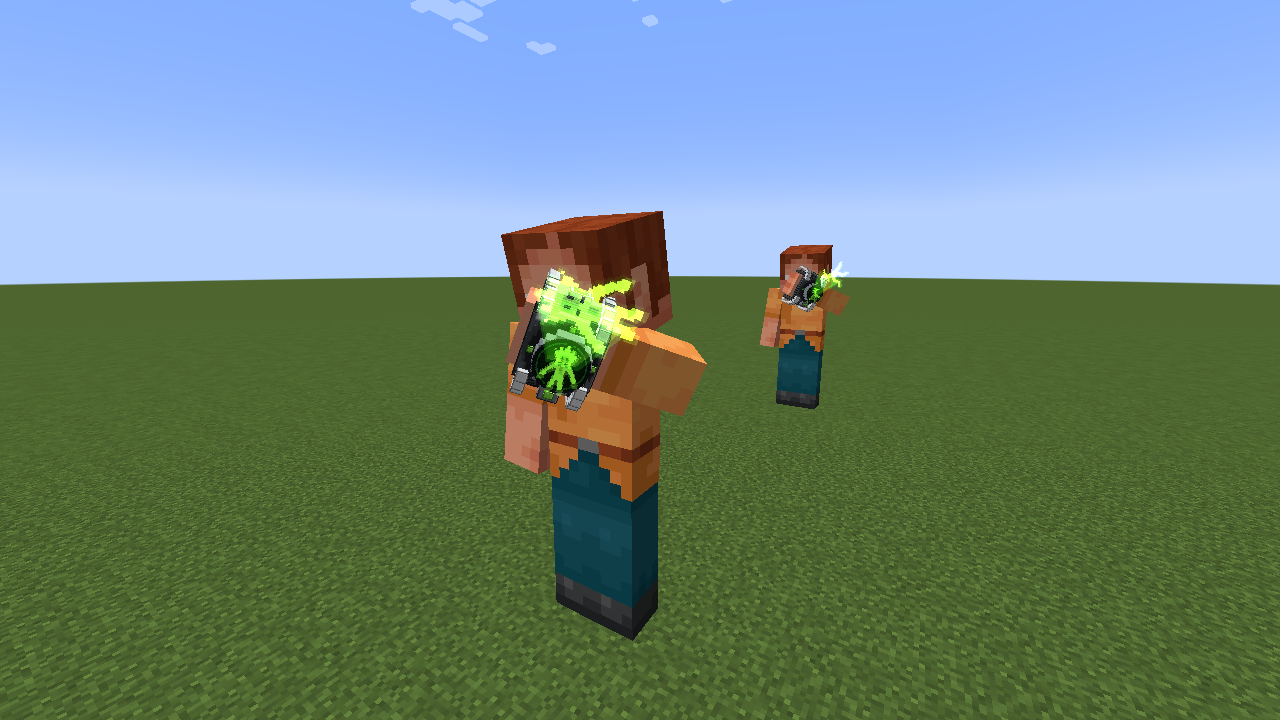
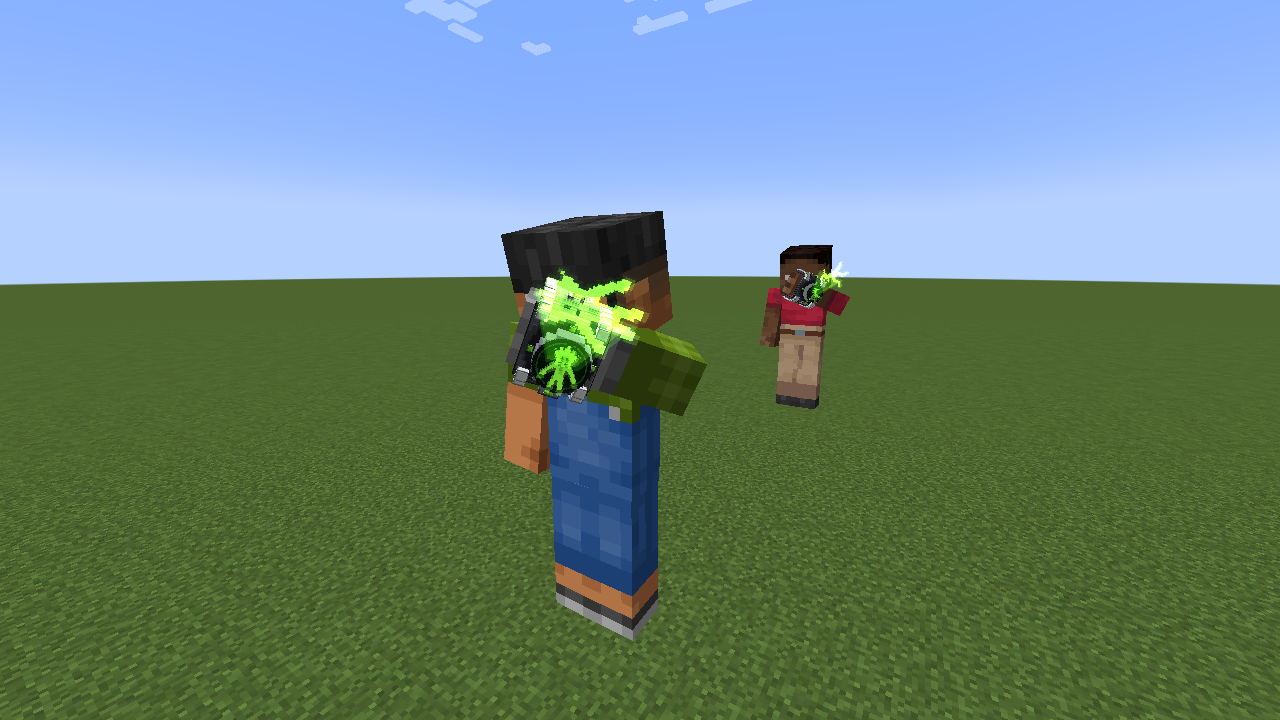
v0.17.1: slimmer Omnitrix cuff (thinner walls and side plates, prongs and button hugging the sides) so it isn't much wider than the arm

diff --git a/src/client/java/com/projecthero/mod/client/omnitrix/OmnitrixModel.java b/src/client/java/com/projecthero/mod/client/omnitrix/OmnitrixModel.java
@@ -48,7 +48,8 @@ public final class OmnitrixModel {
 		int lit = LightTexture.FULL_BRIGHT;
 		float cy = CY;
 		// ---- the cuff: four slabs round the wrist (covering the sleeve layer), the long edges stepped like a chamfer
-		float xi0 = -1.3f, xi1 = L + 0.3f, zi = 2.3f, th = 0.55f;
+		// v0.17.1 (user: the cuff was much wider than the arm): thinner walls / plates and prongs that hug the sides
+		float xi0 = -1.3f, xi1 = L + 0.3f, zi = 2.3f, th = 0.4f;
 		box(pose, vc, xi1, cy - 2.35f, -zi, xi1 + th, cy + 2.35f, zi, CUFF, light);                // top
 		box(pose, vc, xi0 - th, cy - 1.65f, -zi + 0.2f, xi0, cy + 1.65f, zi - 0.2f, CUFF, light);   // underside (narrower, like a strap)
 		for (int sgn = -1; sgn <= 1; sgn += 2) {
@@ -59,7 +60,7 @@ public final class OmnitrixModel {
 			box(pose, vc, xi1, cy - 2.15f, zc0, xi1 + 0.3f, cy + 2.15f, zc1, CUFF, light);
 			box(pose, vc, xi0 - 0.3f, cy - 1.65f, zc0, xi0, cy + 1.65f, zc1, CUFF, light);
 			// the bevelled side plate
-			float zp0 = sgn > 0 ? zi + th : -zi - th - 0.22f, zp1 = sgn > 0 ? zi + th + 0.22f : -zi - th;
+			float zp0 = sgn > 0 ? zi + th : -zi - th - 0.15f, zp1 = sgn > 0 ? zi + th + 0.15f : -zi - th;
 			box(pose, vc, -0.7f, cy - 1.65f, zp0, L - 0.1f, cy + 1.65f, zp1, PLATE, light);
 			// raised plates at both ends of the top
 			float e0 = sgn < 0 ? cy - 2.35f : cy + 1.5f, e1 = sgn < 0 ? cy - 1.5f : cy + 2.35f;
@@ -68,11 +69,11 @@ public final class OmnitrixModel {
 		float xo = xi1 + th;
 		// ---- the button on the front (-z) side: a grey ring, a green lens
 		float bx = L - 1.0f;
-		box(pose, vc, bx - 0.7f, cy - 0.7f, -zi - th - 0.55f, bx + 0.7f, cy + 0.7f, -zi - th - 0.22f, RING, light);
-		box(pose, vc, bx - 0.45f, cy - 0.45f, -zi - th - 0.62f, bx + 0.45f, cy + 0.45f, -zi - th - 0.5f, GREEN, lit);
-		lens(pose, vc, bx, cy, -zi - th - 0.63f, 0.42f, lit);
+		box(pose, vc, bx - 0.7f, cy - 0.7f, -zi - th - 0.38f, bx + 0.7f, cy + 0.7f, -zi - th - 0.15f, RING, light);
+		box(pose, vc, bx - 0.45f, cy - 0.45f, -zi - th - 0.45f, bx + 0.45f, cy + 0.45f, -zi - th - 0.33f, GREEN, lit);
+		lens(pose, vc, bx, cy, -zi - th - 0.46f, 0.42f, lit);
 		// a small green light on the back (+z) side
-		box(pose, vc, bx - 0.35f, cy - 0.55f, zi + th + 0.22f, bx + 0.35f, cy + 0.55f, zi + th + 0.32f, GREEN, lit);
+		box(pose, vc, bx - 0.35f, cy - 0.55f, zi + th + 0.15f, bx + 0.35f, cy + 0.55f, zi + th + 0.25f, GREEN, lit);
 		// ---- the housing on top: a stepped base, the bezel (solid under, a ring above), four lights round it
 		disc(pose, vc, xo - 0.1f, xo + 0.42f, 2.3f, 0f, CUFF, light);
 		disc(pose, vc, xo + 0.42f, xo + 0.75f, 2.05f, 0f, BLACK, light);
@@ -84,8 +85,8 @@ public final class OmnitrixModel {
 			box(pose, vc, ringTop - 0.05f, ly - ls, lz - ls, ringTop + 0.14f, ly + ls, lz + ls, GREEN, lit);
 		}
 		// the stud on the top (+z) edge, with its light
-		box(pose, vc, xo, cy - 0.62f, 2.0f, xo + 1.0f, cy + 0.62f, 2.85f, GREY, light);
-		box(pose, vc, xo + 1.0f, cy - 0.3f, 2.2f, xo + 1.12f, cy + 0.3f, 2.65f, GREEN, lit);
+		box(pose, vc, xo, cy - 0.62f, 2.0f, xo + 1.0f, cy + 0.62f, 2.6f, GREY, light);
+		box(pose, vc, xo + 1.0f, cy - 0.3f, 2.12f, xo + 1.12f, cy + 0.3f, 2.48f, GREEN, lit);
 		// ---- the prongs: four white claws curling from the top down over the sides
 		for (int end = -1; end <= 1; end += 2) {
 			float yc = cy + end * 1.78f, w = 0.36f;
@@ -121,7 +122,9 @@ public final class OmnitrixModel {
 				{ -1.25f, -0.4f, 3.0f, 3.48f },           // the tip curling under
 		};
 		for (float[] g : seg) {
-			float z0 = sgn > 0 ? g[2] : -g[3], z1 = sgn > 0 ? g[3] : -g[2];
+			// v0.17.1 (user): hug the cuff -- everything past its wall (z 2.3) comes in to 55%
+			float ga = g[2] > 2.3f ? 2.3f + (g[2] - 2.3f) * 0.55f : g[2], gb = g[3] > 2.3f ? 2.3f + (g[3] - 2.3f) * 0.55f : g[3];
+			float z0 = sgn > 0 ? ga : -gb, z1 = sgn > 0 ? gb : -ga;
 			box(pose, vc, g[0], y0, z0, g[1], y1, z1, WHITE, light);
 		}
 	}
